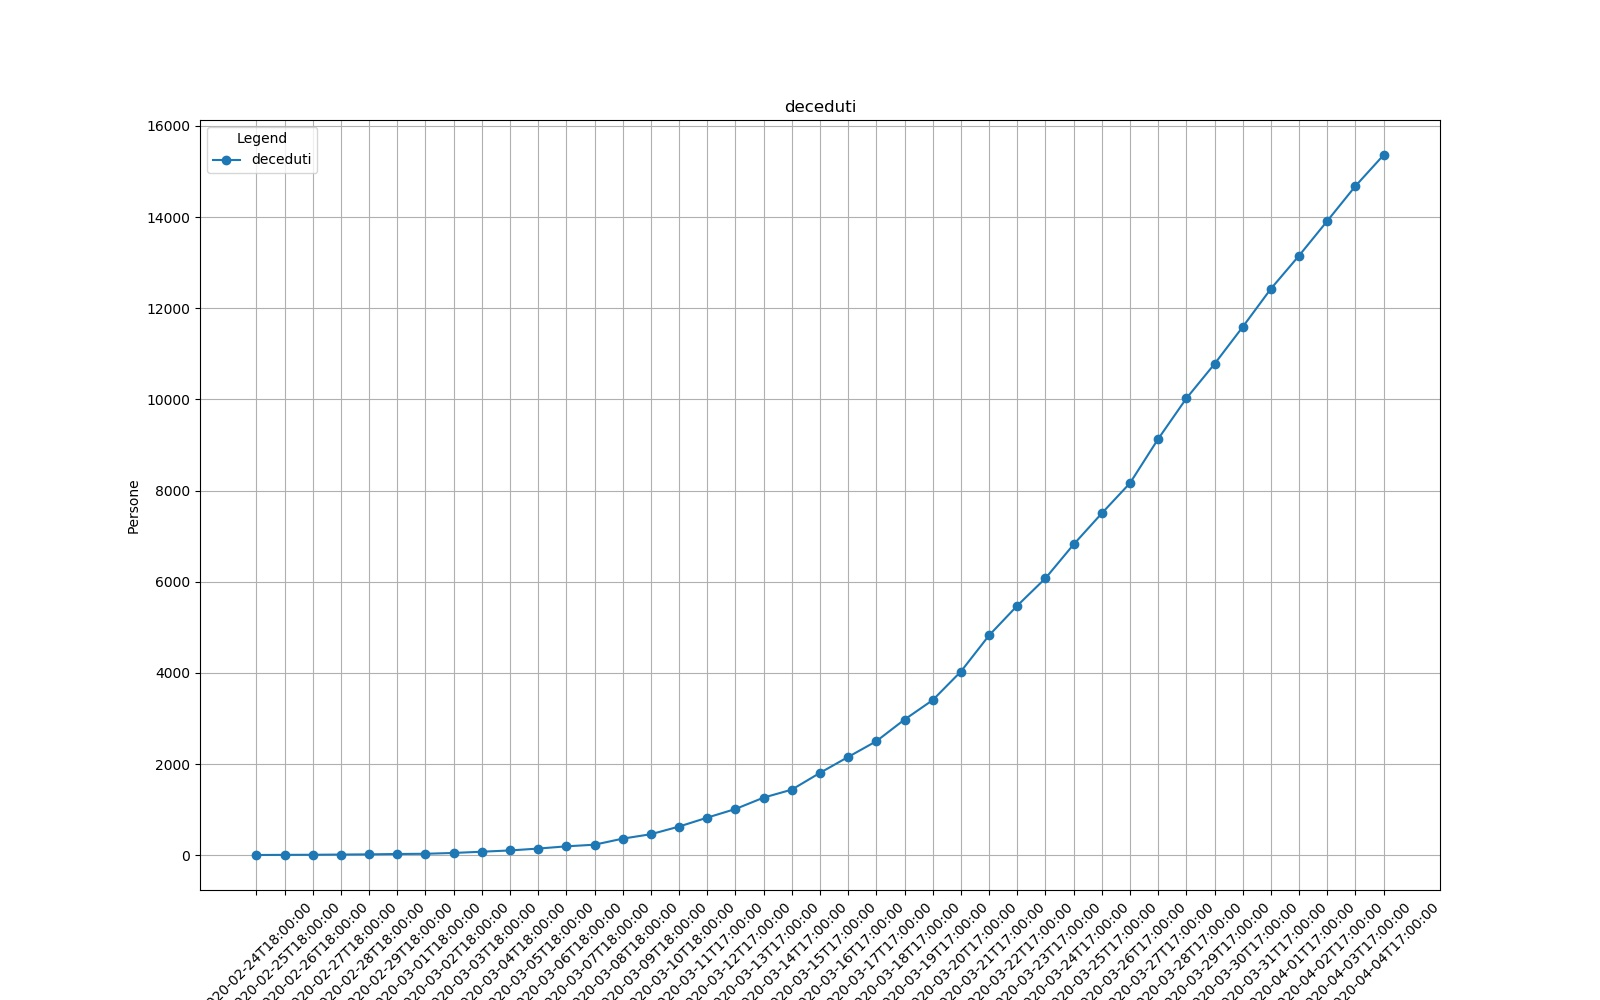
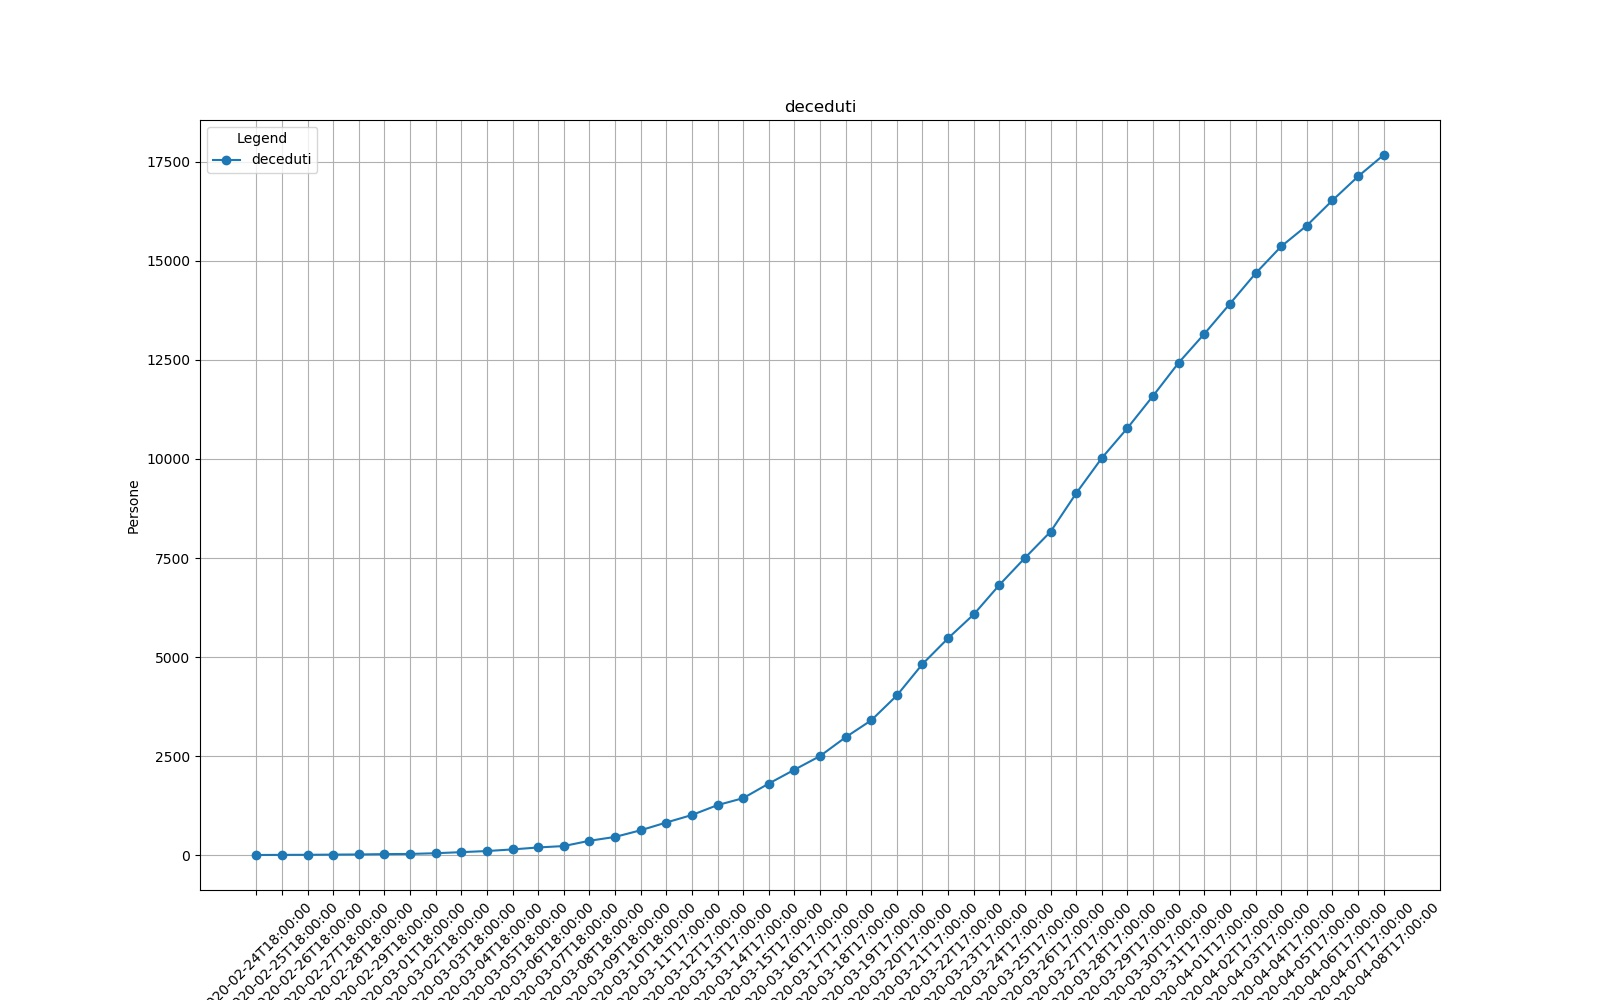
UPD: 08/04/2020

diff --git a/seir_model.py b/seir_model.py
@@ -76,9 +76,15 @@ def solveSEIRsimple(SEIR_simple_model, population, E0, days0, days1, days2, days
     return X, S, E, I, R  # note these are all arrays
 
 # Example:
+# file_name_it = "https://raw.githubusercontent.com/pcm-dpc/COVID-19/master/dati-andamento-nazionale/dpc-covid19-ita-andamento-nazionale.csv"
+# DataFrame = pd.read_csv(file_name_it)
+# t_max = len(DataFrame.data)
+# positivi_misurati = DataFrame.totale_positivi
+# tempo_misurati = range(0, t_max)
 # X, S, E, I, R = solveSEIRsimple(SEIR_simple_model, population, E0, days0, days1, days2, days3, beta0, beta1, beta2, beta3, betan, gamma, sigma)
+# plt_SEIR_model(X, S, I, E, R, tempo_misurati, positivi_misurati)
 
-def plt_SEIR_model(X, S, I, E, R, tempo_misurati, positivi_misurati):
+def plt_SEIR_model(X, S, I, E, R, tempo_misurati, positivi_misurati, filename):
     fig = plt.figure(dpi=75, figsize=(28,8))
     ax = fig.add_subplot(111)
     ax.fmt_xdata = matplotlib.dates.DateFormatter('%Y-%m-%d')  # higher date precision for cursor display
@@ -88,57 +94,55 @@ def plt_SEIR_model(X, S, I, E, R, tempo_misurati, positivi_misurati):
     ax.plot(tempo_misurati, positivi_misurati, label='positivi')
     ax.legend()
     ax.grid()
-    plt.show()
+    plt.savefig(filename)
+    return
 
-def calibration(DataFrame, max_error, population=60000000, E0 = 229, days0=14, days1=25, days2=34, days3=41, rmin=1, rmax=4, rjump=0.15):
+def calibration(DataFrame, max_error, r0, population=60000000, E0=229, days0=14, days1=25, days2=34, days3=41, rmin=1, rmax=4, rjump=0.025):
     # result = pd.DataFrame(columns=['N', 'beta', 'gamma_den', 'R0', 'error_avg'])
     list = []
     t_max = len(DataFrame.data)
     positivi_misurati = DataFrame.totale_positivi
     tempo_misurati = range(0, t_max)
     # Initial conditions for Italy COVID19
-    for r0 in np.arange(rmin, rmax, rjump):
-        situazione_calcolo = (r0 - rmin) / (rmax - rmin)
+    for r1 in np.arange(rmin, rmax, rjump):
+        situazione_calcolo = (r1 - rmin) / (rmax - rmin)
         print("Calcolo al: " + str(round(situazione_calcolo * 100, 2)) + "%")
-        for r1 in np.arange(rmin, rmax, rjump):
-            for r2 in np.arange(rmin, rmax, rjump):
-                for r3 in np.arange(rmin, rmax, rjump):
-                    # r0 = 4
-                    # r1 = 2.3
-                    # r2 = 1.6
-                    # r3 = 1.285
-                    rn = 1.0
+        for r2 in np.arange(rmin, rmax, rjump):
+            for r3 in np.arange(rmin, rmax, rjump):
+                rn = 1.0
 
-                    timePresymptomatic = 2.5
-                    sigma = 1.0 / (5.2 - timePresymptomatic)
-                    generationTime = 4.6
-                    gamma = 1.0 / (2.0 * (generationTime - 1.0 / sigma))
-                    
-                    beta0 = r0 * gamma
-                    beta1 = r1 * gamma
-                    beta2 = r2 * gamma
-                    beta3 = r3 * gamma
-                    betan = rn * gamma
-                    
-                    X, S, E, I, R = solveSEIRsimple(SEIR_simple_model, population, E0, days0, days1, days2, days3, beta0, beta1,
-                                                    beta2, beta3, betan, gamma, sigma)
-                    error_positivi_avg = np.average((pow(pow((pd.Series(I) - positivi_misurati),2),1/2)/positivi_misurati).fillna(0))
-                    if abs(error_positivi_avg) < max_error:
-                        # print(N, beta, gamma_den, beta/gamma, error_positivi_avg, error_guariti_avg)
-                        list.append([population, beta0, beta1, beta2, beta3, betan, gamma, sigma, error_positivi_avg])
-    result = pd.DataFrame(list, columns=["N", "beta0", "beta1", "beta2", "beta3", "betan", "gamma", "sigma", "error_positivi_avg"])
+                timePresymptomatic = 2.5
+                sigma = 1.0 / (5.2 - timePresymptomatic)
+                generationTime = 4.6
+                gamma = 1.0 / (2.0 * (generationTime - 1.0 / sigma))
+
+                beta0 = r0 * gamma
+                beta1 = r1 * gamma
+                beta2 = r2 * gamma
+                beta3 = r3 * gamma
+                betan = rn * gamma
+
+                X, S, E, I, R = solveSEIRsimple(SEIR_simple_model, population, E0, days0, days1, days2, days3, beta0, beta1,
+                                                beta2, beta3, betan, gamma, sigma)
+                error_positivi_avg = np.average((pow(pow((pd.Series(E) - positivi_misurati),2),1/2)/positivi_misurati).fillna(0))
+                if abs(error_positivi_avg) < max_error:
+                    # print(N, beta, gamma_den, beta/gamma, error_positivi_avg, error_guariti_avg)
+                    list.append([population, beta0, beta1, beta2, beta3, betan, gamma, sigma, error_positivi_avg])
+    result = pd.DataFrame(list, columns=["population", "beta0", "beta1", "beta2", "beta3", "betan", "gamma", "sigma", "error_positivi_avg"])
     index_min_error = result.error_positivi_avg.idxmin()
-    N, beta0, beta1, beta2, beta3, betan, gamma, sigma, err_positivi = result.iloc[index_min_error]
+    population, beta0, beta1, beta2, beta3, betan, gamma, sigma, err_positivi = result.iloc[index_min_error]
     print(result.iloc[index_min_error])
     # Initial conditions for Italy COVID19
     I0 = 229
     X, S, E, I, R = solveSEIRsimple(SEIR_simple_model, population, E0, days0, days1, days2, days3, beta0, beta1, beta2, beta3, betan, gamma, sigma)
-    plt_SEIR_model(X, S, I, E, R, tempo_misurati, positivi_misurati)
+    filename  = str('PredictionSEIR beta0' + str(round(beta0, 5)) + ', beta1' + str(round(beta1, 5)) + ', beta2' + str(round(beta2, 5)) + ', beta3' + str(round(beta3, 5)) + ', betan' + str(round(betan, 5)) + ', error' + str(round(err_positivi_avg, 4)) + '.jpg')
+    plt_SEIR_model(X, S, I, E, R, tempo_misurati, positivi_misurati, filename)
     print("Calcolo al: 100%")
     return result
 
-file_name_it = "https://raw.githubusercontent.com/pcm-dpc/COVID-19/master/dati-andamento-nazionale/dpc-covid19-ita-andamento-nazionale.csv"
-DataFrame = pd.read_csv(file_name_it)
-t_max = len(DataFrame.data)
-max_error = 0.12
-results = calibration(DataFrame, max_error)
+# Example:
+# file_name_it = "https://raw.githubusercontent.com/pcm-dpc/COVID-19/master/dati-andamento-nazionale/dpc-covid19-ita-andamento-nazionale.csv"
+# DataFrame = pd.read_csv(file_name_it)
+# t_max = len(DataFrame.data)
+# max_error = 0.12
+# results = calibration(DataFrame, max_error, r0=4)

diff --git a/multi-process-calibration.py b/multi-process-calibration.py
@@ -4,7 +4,8 @@ import pandas as pd
 import numpy as np
 import multiprocessing as mp
 import prediction_sir_model
-import prediction_seir_model
+import prediction_seir_model #first seir model, too slow with too many params
+import seir_model
 import time
 
 if __name__ == '__main__':
@@ -16,9 +17,7 @@ if __name__ == '__main__':
 
     # Import real data
     file_name_it = "https://raw.githubusercontent.com/pcm-dpc/COVID-19/master/dati-andamento-nazionale/dpc-covid19-ita-andamento-nazionale.csv"
-    file_name_regions = "https://raw.githubusercontent.com/pcm-dpc/COVID-19/master/dati-regioni/dpc-covid19-ita-regioni.csv"
     DataFrame = pd.read_csv(file_name_it)
-    DataFrame_regions = pd.read_csv(file_name_regions)
     t_max = len(DataFrame.data)
 
     # Plot data
@@ -42,30 +41,31 @@ if __name__ == '__main__':
     if seir_calibration == 1:
         # old model
         # # Parameters for calibration SIR Model
-        # N_min, N_max, N_jump, max_error = 500000, 1500000, 10000, 0.3
-        # start = time.time()
-        # cpu_count = mp.cpu_count()-1
-        # args = [(DataFrame, N, max_error) for N in range(N_min, N_max, N_jump)]
-        # with mp.Pool(processes=cpu_count) as p:
-        #     p.starmap(prediction_seir_model.calibration, args)
-        #     # Duration
-        #     finish = time.time()
-        #     timing = finish - start
-        #     print("Execution time: %s  seconds" % (timing))
+        N_min, N_max, N_jump, max_error = 500000, 1500000, 10000, 0.3
+        start = time.time()
+        cpu_count = mp.cpu_count()-1
+        args = [(DataFrame, N, max_error) for N in range(N_min, N_max, N_jump)]
+        with mp.Pool(processes=cpu_count) as p:
+            p.starmap(prediction_seir_model.calibration, args)
+            # Duration
+            finish = time.time()
+            timing = finish - start
+            print("Execution time: %s  seconds" % (timing))
 
     if seir_simple_calibration == 1:
-    # Parameters for calibration SIR Model
-    population, E0, max_error = 60000000, 229, 0.15
-    rmin, rmax, rjump = 1, 6, 0.1
-    daysTotal = 120  # total days to model
+        # Parameters for calibration SIR Model
+        population, E0, max_error = 60000000, 229, 0.06
+        r0_min, r0_max, r0_jump = 3.5, 4.5, 0.05
+        daysTotal = 120  # total days to model
 
-    start = time.time()
-    cpu_count = mp.cpu_count()-1
-    args = [(DataFrame, N, max_error) for r0 in range(rmin, rmax, rjump)]
-    with mp.Pool(processes=cpu_count) as p:
-        p.starmap(prediction_seir_model.calibration, args)
-        # Duration
-        finish = time.time()
-        timing = finish - start
-        print("Execution time: %s  seconds" % (timing))
+        start = time.time()
+        cpu_count = mp.cpu_count()-1
+        args = [(DataFrame, max_error, r0, population) for r0 in np.arange(r0_min, r0_max, r0_jump)]
+        with mp.Pool(processes=cpu_count) as p:
+            p.starmap(seir_model.calibration, args)
+            # Duration
+            finish = time.time()
+            timing = finish - start
+            print("Execution time: %s  seconds" % (timing))
 
+        #results = calibration(DataFrame, max_error)

diff --git a/prediction_sir_model.py b/prediction_sir_model.py
@@ -29,7 +29,7 @@ def SIR_model(I0, R0, N, beta, gamma, t_max):
     return S, I, R, t
 
 
-def calibration(DataFrame, N, max_error, beta_min=0.15, beta_max=0.45, gamma_den_min=1, gamma_den_max=14):
+def calibration(DataFrame, N, max_error, beta_min=0.1, beta_max=0.45, gamma_den_min=3.5, gamma_den_max=14):
     # result = pd.DataFrame(columns=['N', 'beta', 'gamma_den', 'R0', 'error_avg'])
     list = []
     t_max = len(DataFrame.data)
@@ -43,17 +43,14 @@ def calibration(DataFrame, N, max_error, beta_min=0.15, beta_max=0.45, gamma_den
             gamma = 1 / gamma_den
             S, I, R, t = SIR_model(I0, R0, N, beta, gamma, t_max)
             positivi_misurati = DataFrame.totale_positivi
-            guariti_misurati = DataFrame.dimessi_guariti
-            error_positivi = (I - positivi_misurati) / positivi_misurati
-            error_guariti = (R - guariti_misurati) / guariti_misurati
+            error_positivi = pow(pow((I - positivi_misurati),2),1/2)/ positivi_misurati
             error_positivi_avg = statistics.mean(abs(error_positivi))
-            error_guariti_avg = statistics.mean(abs(error_guariti))
             if abs(error_positivi_avg) < max_error:
                 # print(N, beta, gamma_den, beta/gamma, error_positivi_avg, error_guariti_avg)
-                list.append([N, beta, gamma_den, beta / gamma, error_positivi_avg, error_guariti_avg])
-    result = pd.DataFrame(list, columns=["N", "beta", "gamms_den", "R0", "error_positivi_avg", "error_guariti_avg"])
+                list.append([N, beta, gamma_den, beta / gamma, error_positivi_avg])
+    result = pd.DataFrame(list, columns=["N", "beta", "gamms_den", "R0", "error_positivi_avg"])
     index_min_error = result.error_positivi_avg.idxmin()
-    N, beta, gamma_den, Rknot, err_positivi, err_guariti = result.iloc[index_min_error]
+    N, beta, gamma_den, Rknot, err_positivi = result.iloc[index_min_error]
     print(result.iloc[index_min_error])
     # Initial conditions for Italy COVID19
     I0 = 229
@@ -113,6 +110,3 @@ def plt_SIR_model(t, S, I, R, tempo_misurati, positivi_misurati, N, beta, gamma_
 #       p.start()
 #     for p in processes:
 #       p.join()
-
-
-
